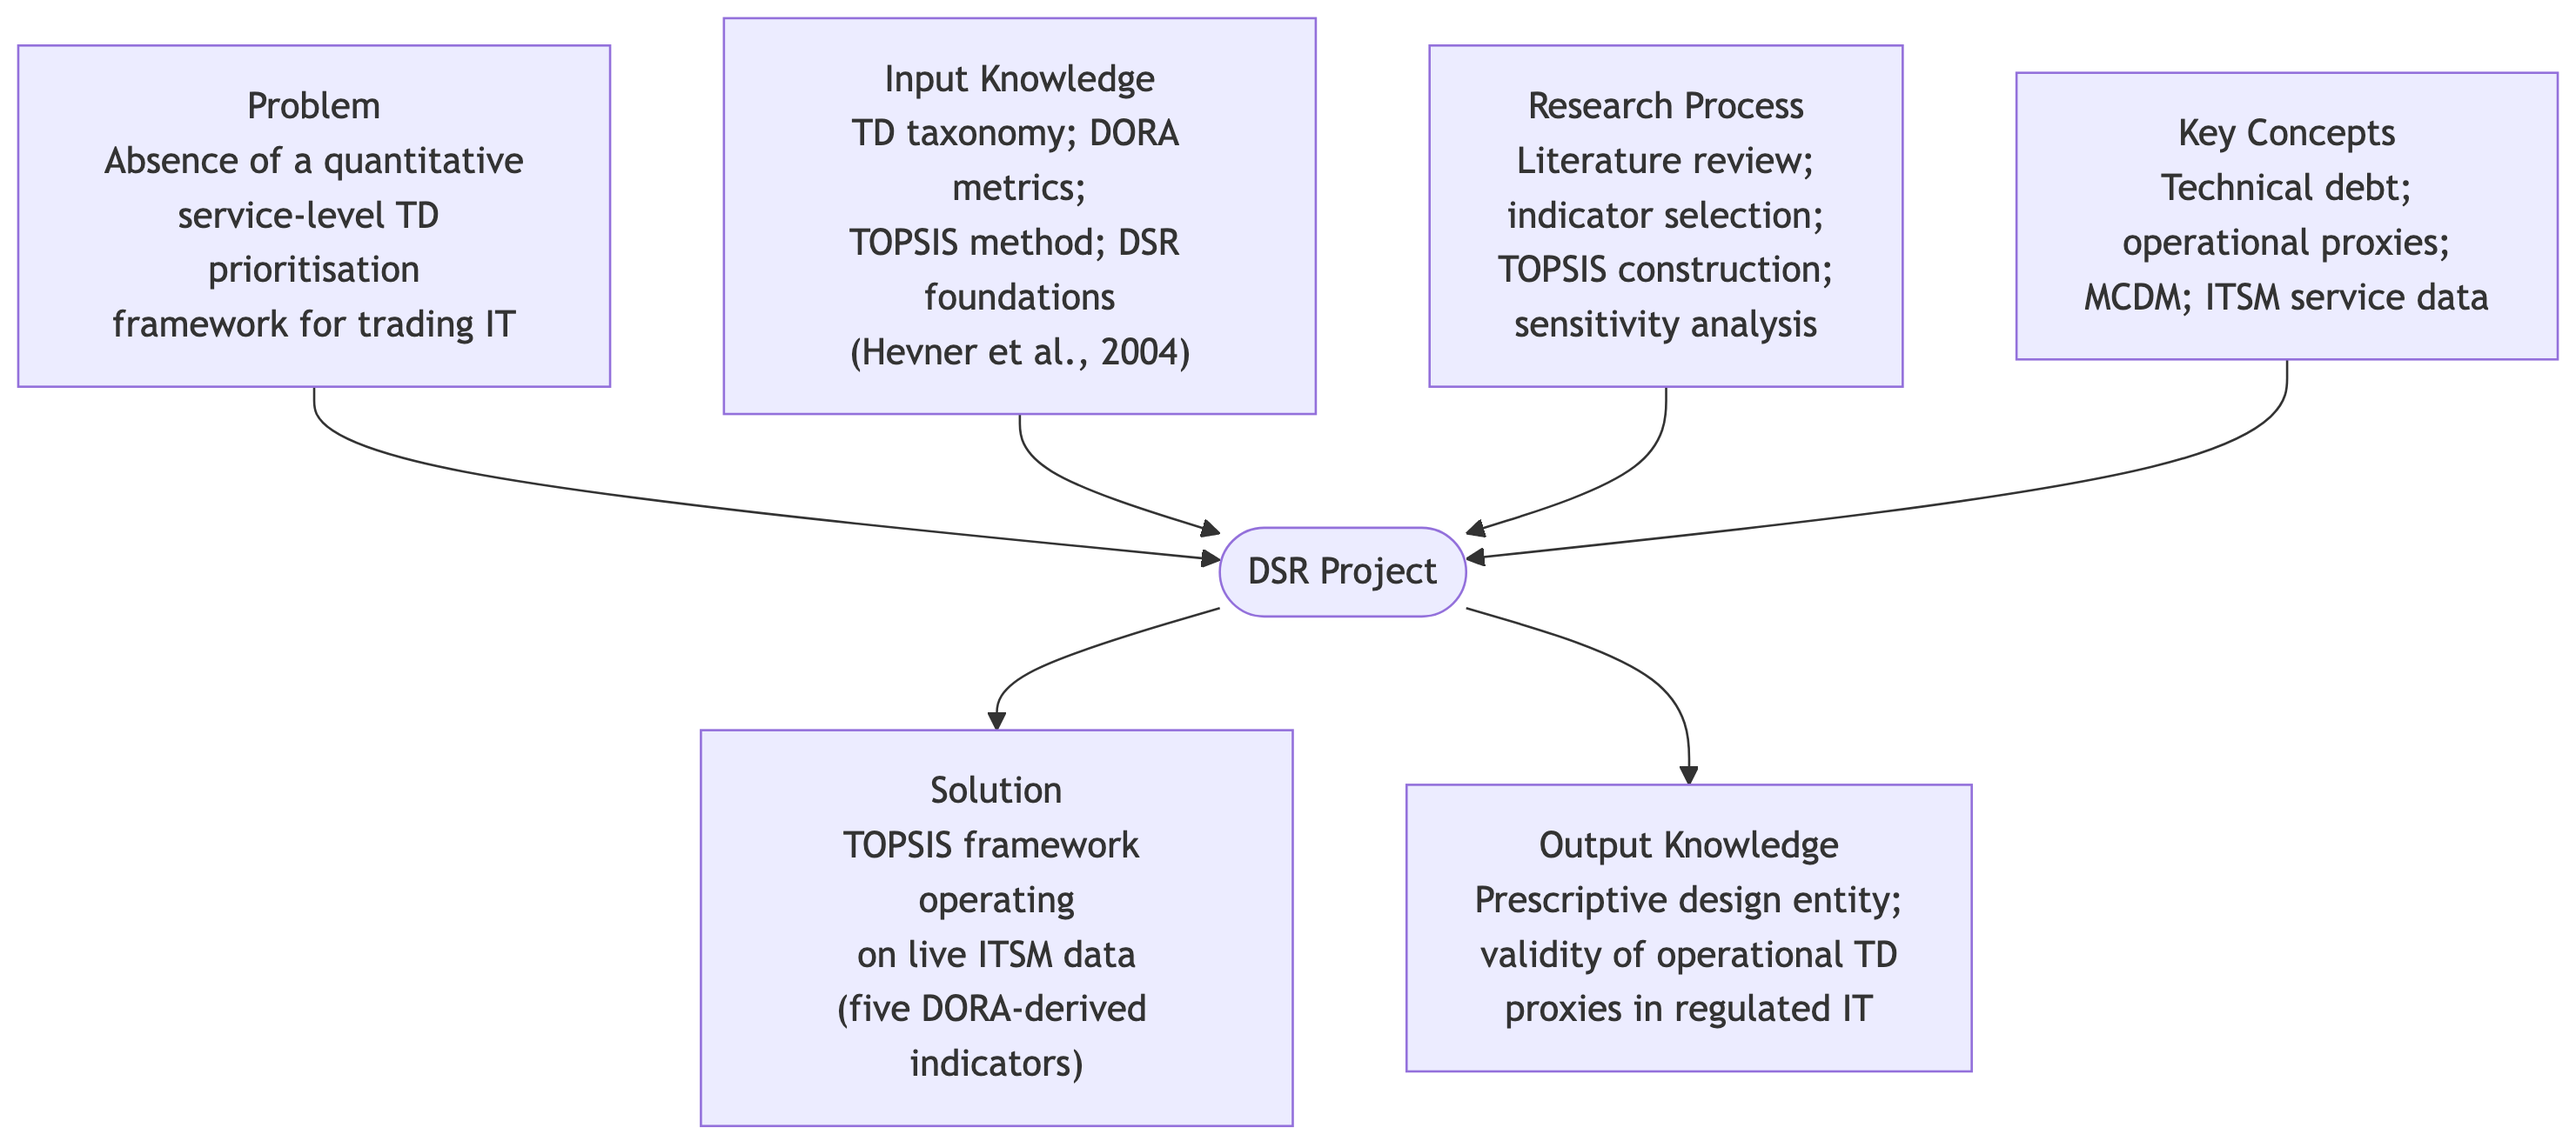
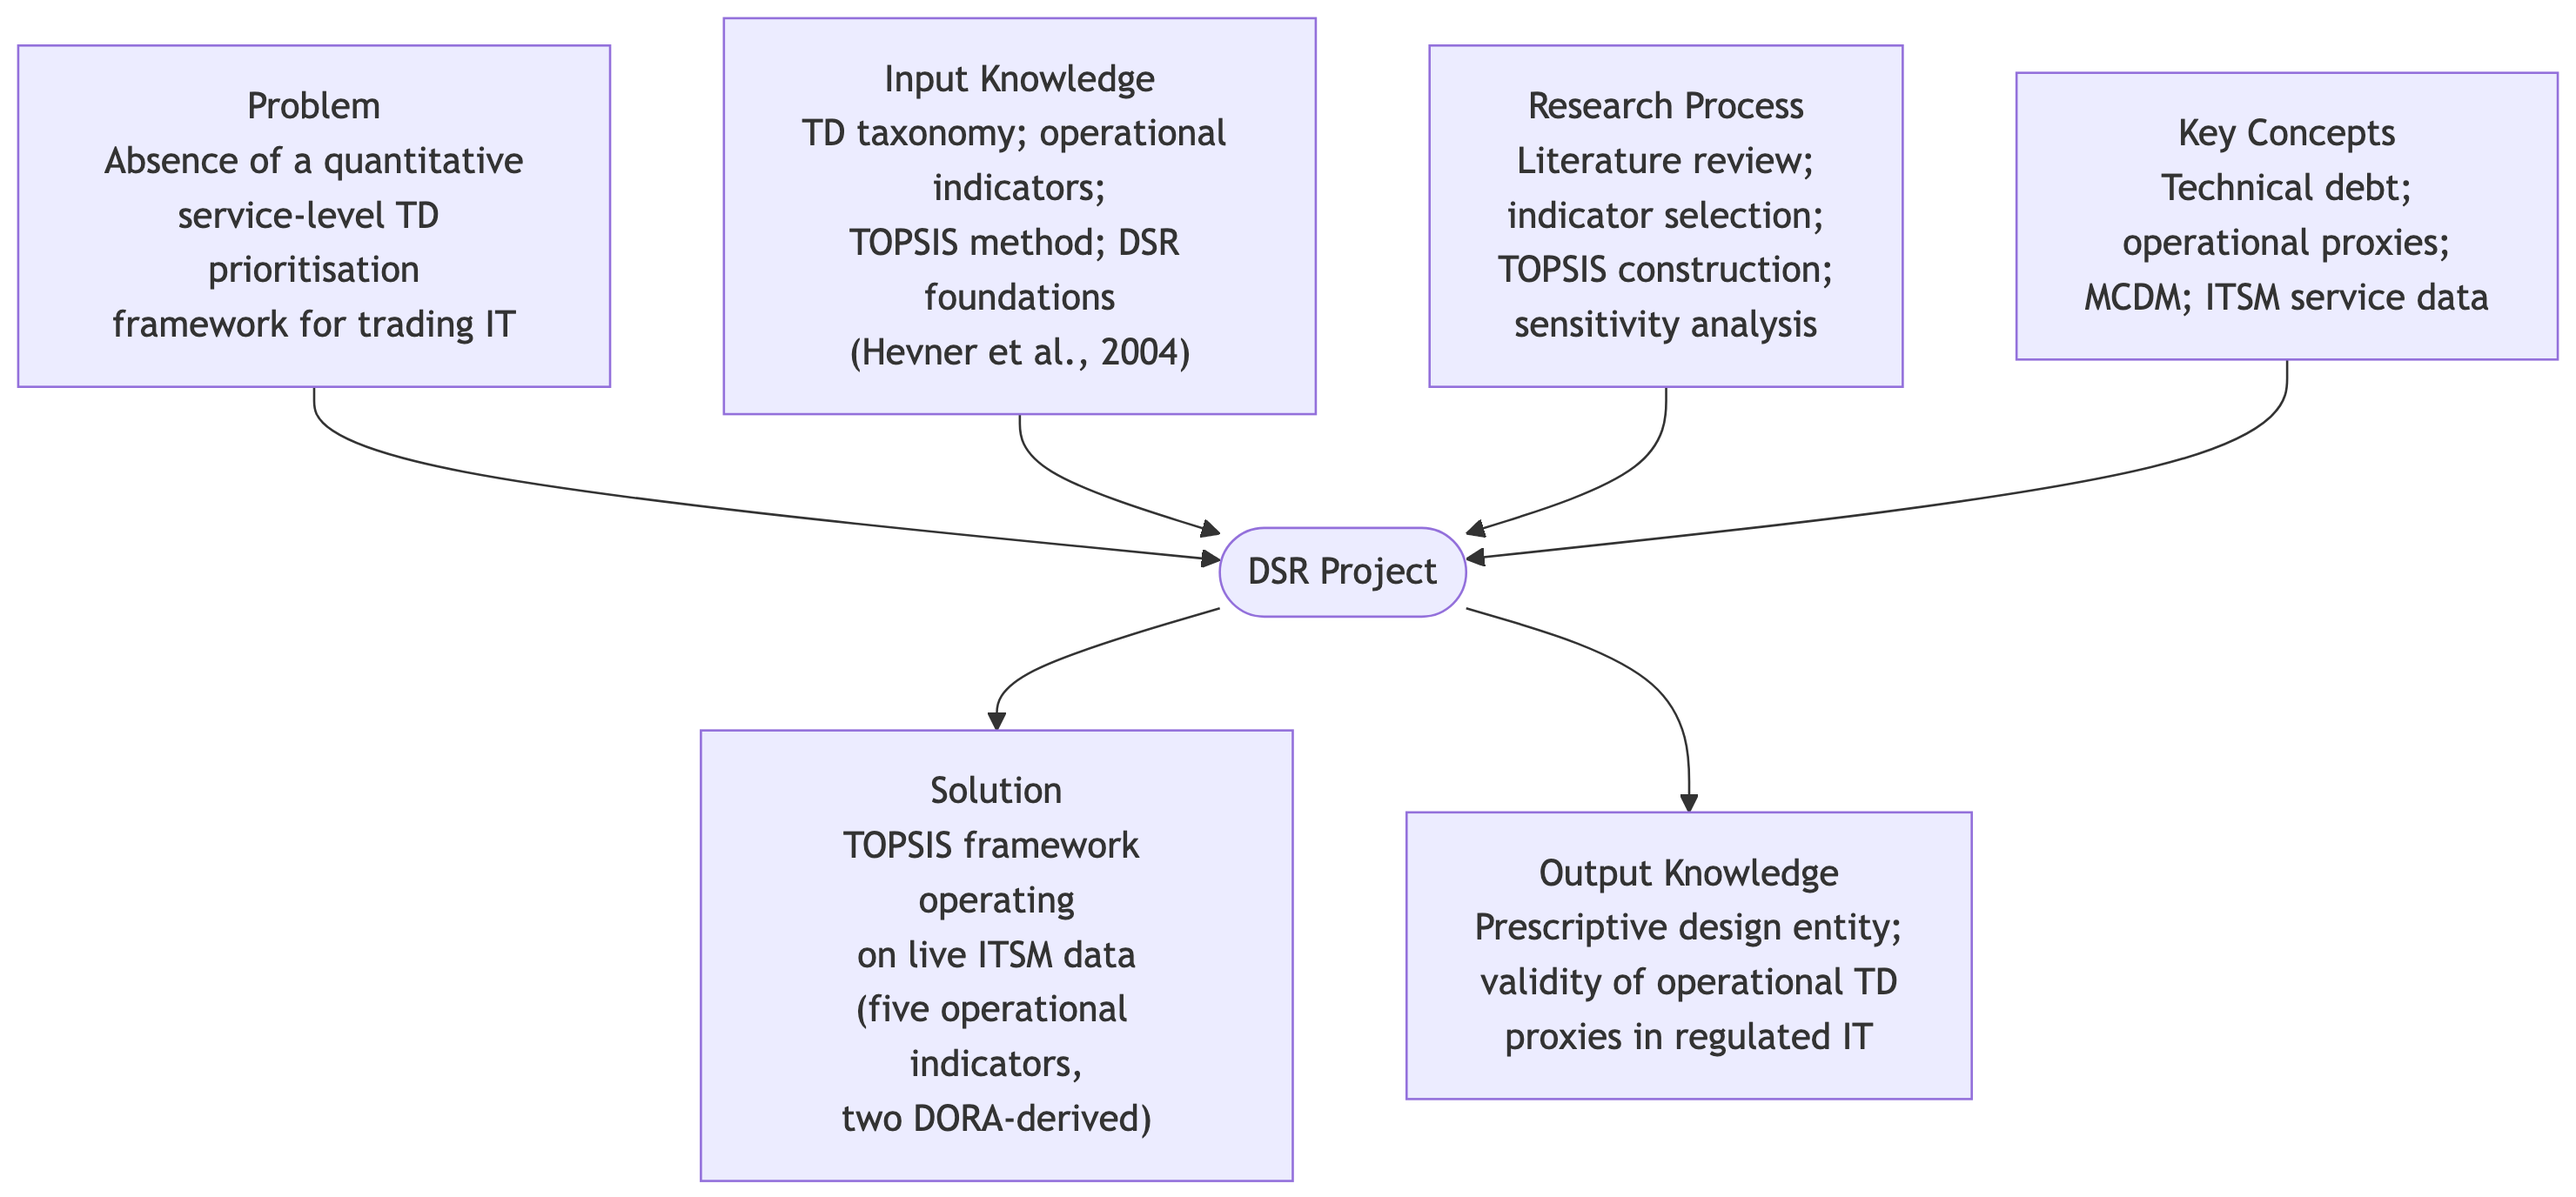
revising several sections

diff --git a/quarto/before-body.tex b/quarto/before-body.tex
@@ -51,7 +51,7 @@ $endif$
  
 \vfill
 
-\normalsize \textit{A thesis submitted in fulfillment of the requirements\\ for the degree of \degreename}\\[0.3cm] % University requirement text
+\normalsize \textit{A thesis submitted in fulfilment of the requirements\\ for the degree of \degreename}\\[0.3cm] % University requirement text
 \textit{in the}\\[0.4cm]
 \groupname\\
 \deptname\\[1cm] % Research group name and department name
